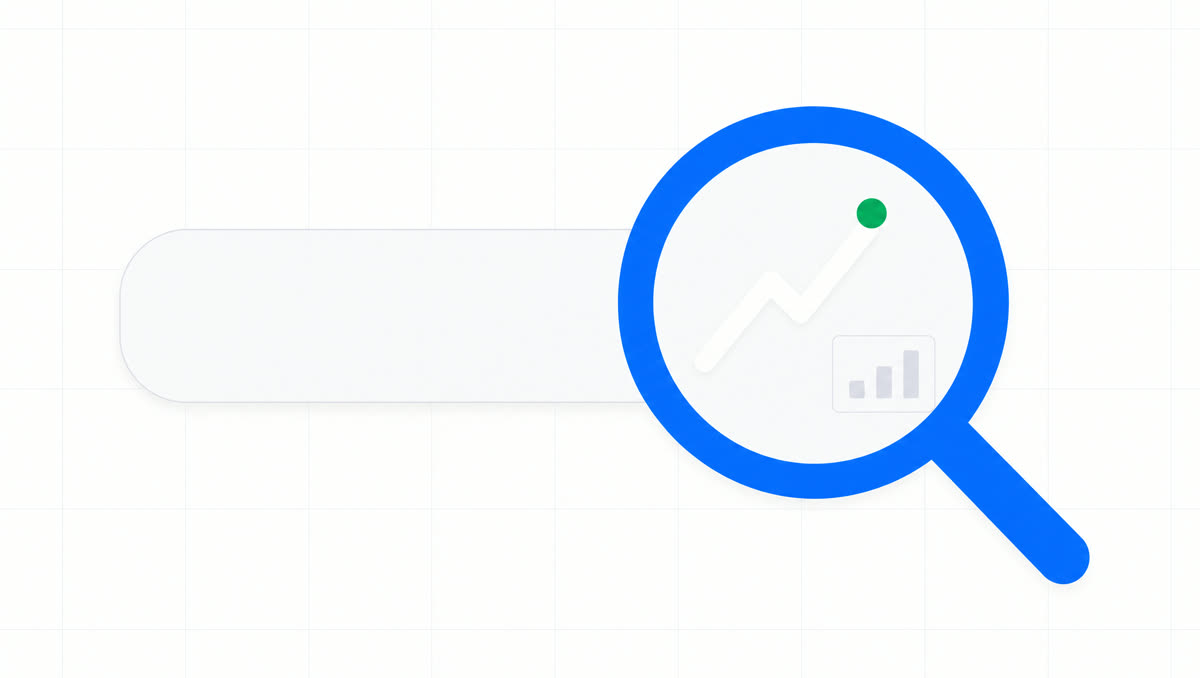
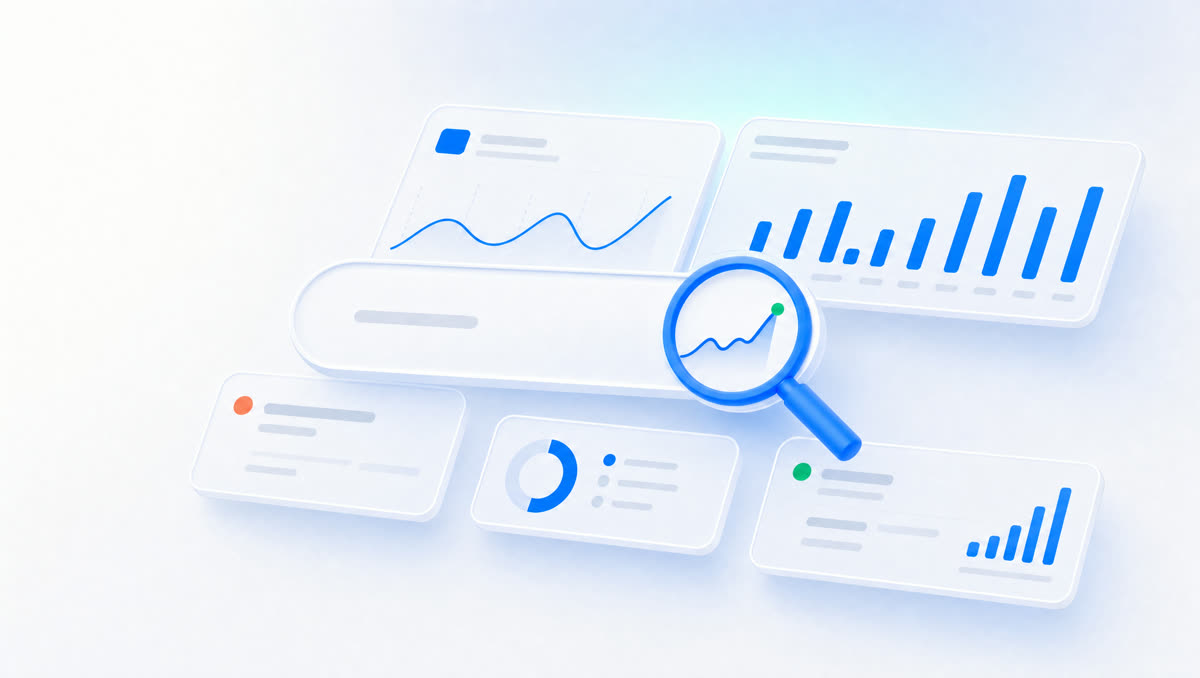
Regenerate all 15 blog heroes as operator-premium v3 system
Stripe/Linear-class light dimensional style: glassmorphic dashboard clusters,
greeked text, one narrative focal object per post, consistent grade.
CLAUDE.md hero spec updated to v3.

Claude-Session: https://claude.ai/code/session_014aaqZftbqY2sjmYMfMcZV4

diff --git a/CLAUDE.md b/CLAUDE.md
@@ -22,9 +22,11 @@ Any page or content change must keep these true:
 - **Friday auto-publish**: GH Actions `friday-publish.yml` (Fri 12:00 UTC) hits a Vercel deploy hook (repo secret `VERCEL_DEPLOY_HOOK_URL`) → rebuild picks up posts whose `pubDate` has arrived. Queue currently runs through 2026-09-11 — top it up with new Friday-dated posts before it dries out.
 - New post checklist: markdown file with full frontmatter (incl. `heroImage`/`heroAlt`) → hero webp + og jpg generated → build check.
 
-## Hero image system (Higgsfield)
+## Hero image system (Higgsfield) — "operator-premium" v3
 
-Flat editorial vector, one oversized `#0057ff` focal glyph (~55% frame), faint blueprint grid, ≤2 light-gray support cards, single coral `#ff6b3d`/green `#16a34a` micro-dots, strictly no 3D/no text-in-image. Generate with GPT Image 2, 16:9, passing `public/blog/og/glp1-advertising-compliance-2026.jpg` as `--image` style reference so new heroes match the set. Then: `cwebp -q 82 -resize 1600 0` → `public/blog/`, 1200w JPEG → `public/blog/og/`.
+Stripe/Linear-class light dimensional style: airy white→pale-blue (`#eef2fa`) gradient with faint blue glow, floating 2.5D glassmorphic dashboard cards with vivid `#0057ff` charts, ALL card text greeked (gray bars, never characters), one narrative focal object per post staged in front (shield, funnel, padlock, magnifier…), one coral `#ff6b3d` + one green `#16a34a` micro-dot, soft cinematic lighting, generous negative space. **No readable text/letters/numbers/logos ever.**
+
+Generate with GPT Image 2, 16:9, 2k, passing `public/blog/og/glp1-advertising-compliance-2026.jpg` (the anchor) as `--image` style reference so new heroes match the set. Then: `cwebp -q 82 -resize 1600 0` → `public/blog/<slug>.webp`, 1200w JPEG → `public/blog/og/<slug>.jpg`. Higgsfield gotchas: ≤7 concurrent jobs, retry 502/504 with backoff.
 
 ## Design tokens
 
